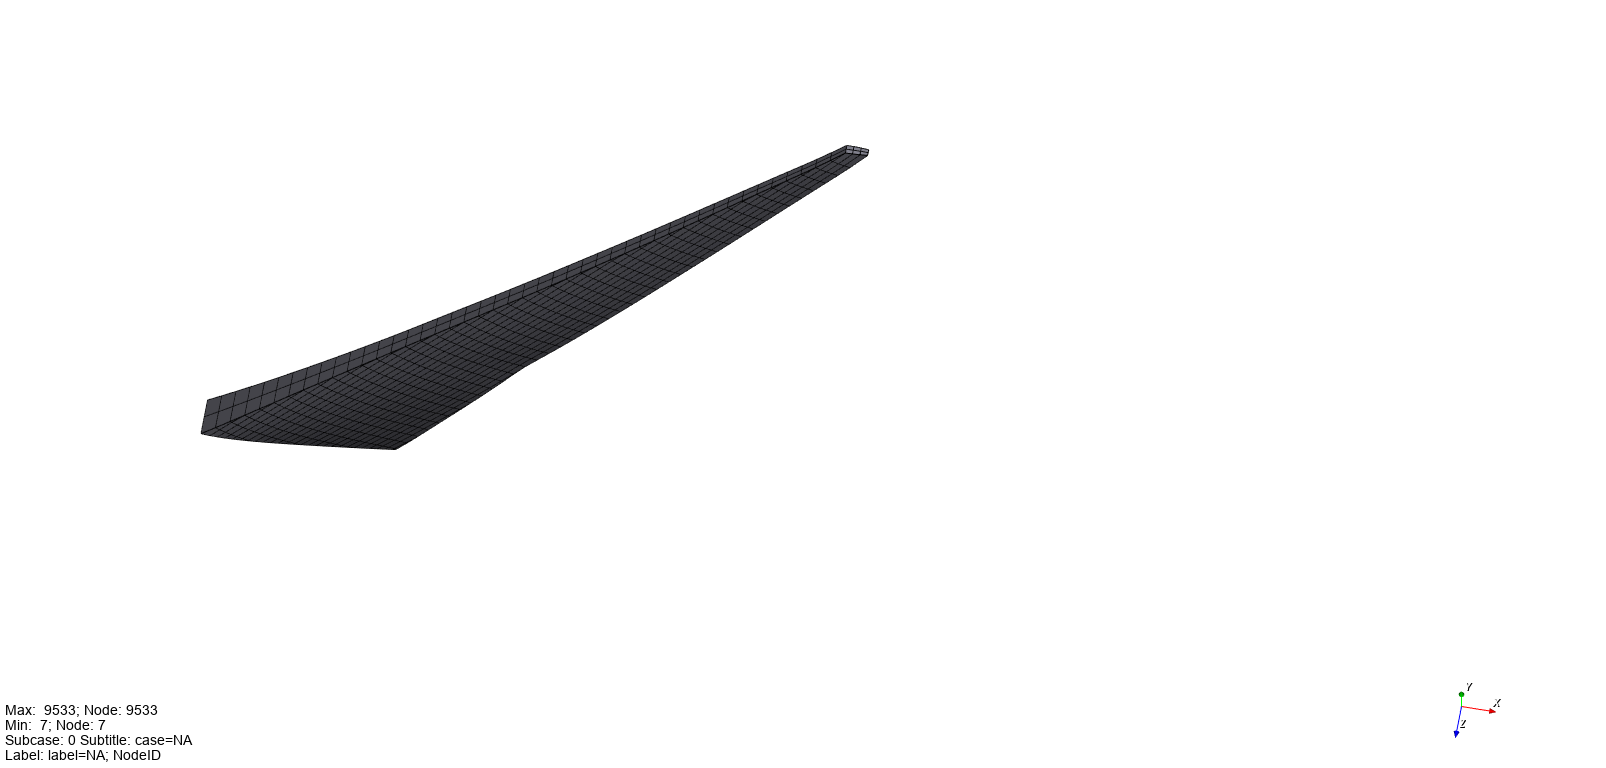
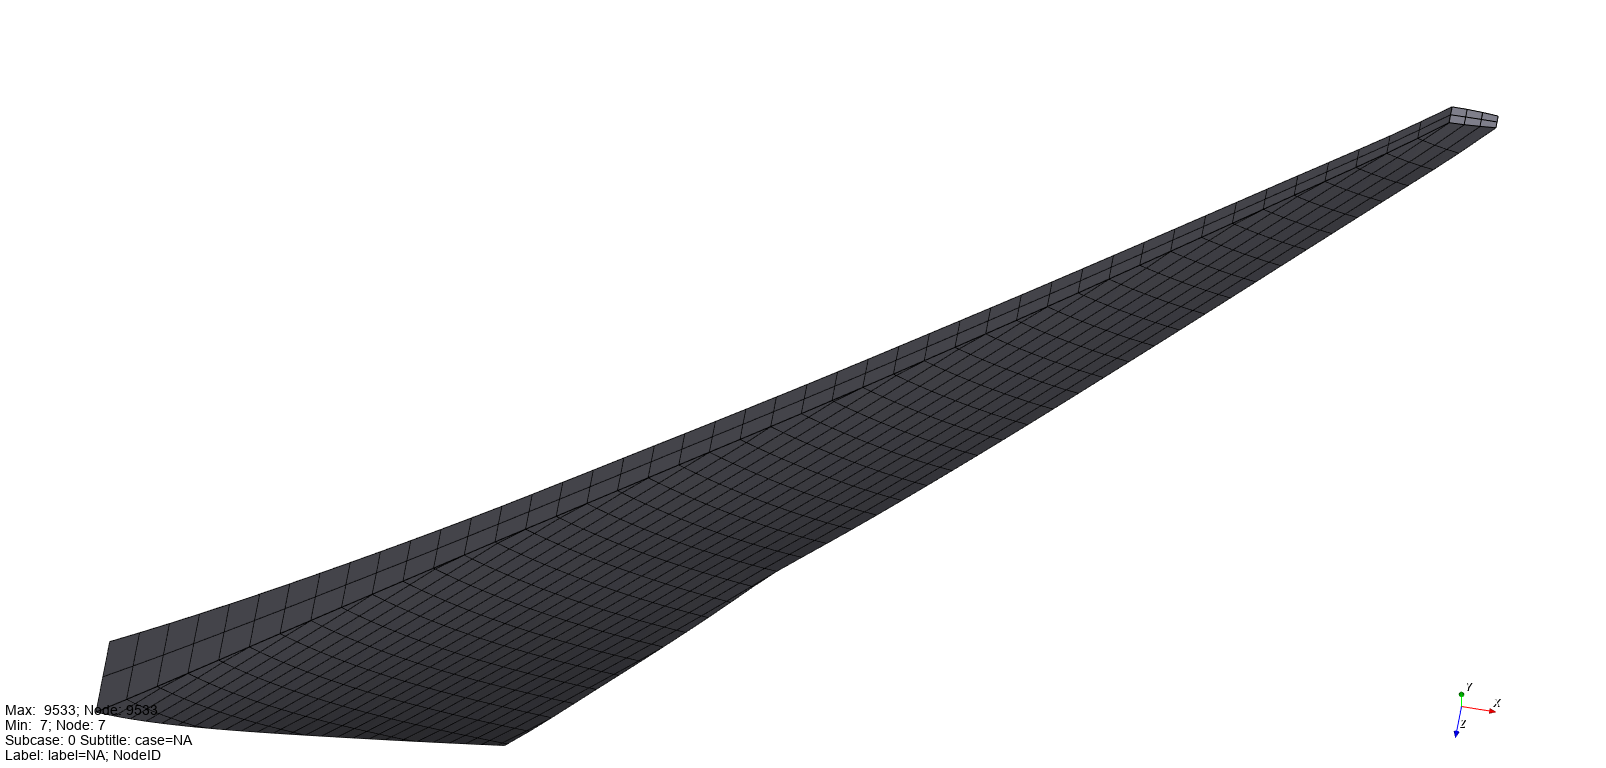
Fix render auto-fit/centering for models with unconnected GRID points (#74)
* Fix render auto-fit/centering on models with unconnected GRID points

The pCRM9 overview render (Test model 2) looked poorly zoomed compared to
the NASA CRM and ISTAR overviews -- the wing filled only a small corner
of the frame. Root cause: _build_postscript's auto-fit measured
self.grid.GetPoints(), which includes every GRID card pyNastran loaded,
not just the ones actually drawn. pCRM9 has 4 SPC-only GRID points (an
SPC1-only wing-body carry-through/attachment reference, no owning
element) sitting tens of meters outside the actual meshed wing --
confirmed directly via pyNastran (X extent more than doubles, 43,873mm
vs the visible mesh's 20,466mm, once those 4 points are included).
pyNastranGUI's own on_reset_camera()/ResetCamera() centers on the same
unfiltered points too, so both the zoom scale AND the focal point were
off.

Fix: restrict the fit calculation to points actually referenced by a
cell in self.grid (the real, visible geometry), and re-center the
camera's FocalPoint/Position on that same filtered set by a delta shift
that preserves the already-established view direction. Regenerated the
pCRM9 render with the fix; NASA CRM and ISTAR renders regenerated as a
regression check and confirmed visually unchanged (they have no/
negligible unconnected-node extent). Full mcp_server test suite (50
tests) still passes.

* Document the unconnected-GRID render auto-fit gotcha in CLAUDE.md

Per this repo's own session-wrap-up convention: a durable, repo-level
[…]

Changed region(s): [[0.0623, 0.125, 0.934, 0.9688], [0.1245, 0.1875, 0.5604, 0.5938]]

diff --git a/scripts/mcp_server.py b/scripts/mcp_server.py
@@ -2110,7 +2110,41 @@ _fit_right = _fit_right / _np_fit.linalg.norm(_fit_right)
 _fit_up = _np_fit.cross(_fit_right, _fit_view_dir)
 _fit_up = _fit_up / _np_fit.linalg.norm(_fit_up)
 
-_fit_points = _fit_vtk_to_numpy(self.grid.GetPoints().GetData())
+_fit_all_points = _fit_vtk_to_numpy(self.grid.GetPoints().GetData())
+# self.grid.GetPoints() returns every GRID card pyNastran loaded, not just
+# the ones actually drawn -- a GRID that's only referenced by an SPC/SPC1
+# (no owning element) still gets a point in this array with no cell
+# attached to it. Confirmed against a real deck (pCRM9): 4 SPC-only nodes
+# representing a wing-body attachment/carry-through reference sit tens of
+# meters outside the actual meshed wing, more than doubling the raw
+# points' X/Z extent versus the visible mesh alone and shrinking the
+# rendered wing to a fraction of the frame despite this fit logic.
+# Restricting to points actually referenced by a cell (the real, visible
+# geometry) fixes this regardless of *why* a model has unconnected GRIDs.
+_fit_used_ids = set()
+for _fit_cell_i in range(self.grid.GetNumberOfCells()):
+    _fit_ids = self.grid.GetCell(_fit_cell_i).GetPointIds()
+    for _fit_j in range(_fit_ids.GetNumberOfIds()):
+        _fit_used_ids.add(_fit_ids.GetId(_fit_j))
+_fit_points = (
+    _fit_all_points[sorted(_fit_used_ids)] if _fit_used_ids else _fit_all_points
+)
+
+# on_reset_camera()/ResetCamera() (in camera_block, above) centers on the
+# same unfiltered self.grid points -- so on a model with unconnected GRIDs
+# the focal point/position are already off-center before this block even
+# runs, independent of the ParallelScale fix above. Re-center on the real
+# geometry's own midpoint by shifting FocalPoint and Position by the same
+# delta, which preserves the view DIRECTION established by camera_block
+# (preset Azimuth/Elevation, or a custom_camera) and only moves *where*
+# that direction is centered.
+_fit_true_center = (_fit_points.max(axis=0) + _fit_points.min(axis=0)) / 2.0
+_fit_old_focal = _np_fit.array(_fit_cam.GetFocalPoint())
+_fit_old_pos = _np_fit.array(_fit_cam.GetPosition())
+_fit_delta = _fit_true_center - _fit_old_focal
+_fit_cam.SetFocalPoint(*(_fit_old_focal + _fit_delta))
+_fit_cam.SetPosition(*(_fit_old_pos + _fit_delta))
+
 _fit_extent_x = (_fit_points @ _fit_right).ptp()
 _fit_extent_y = (_fit_points @ _fit_up).ptp()
 

diff --git a/CLAUDE.md b/CLAUDE.md
@@ -190,6 +190,24 @@ rationale here, just the reminder:
   produced its output file shortly after; retrying immediately without
   checking left two duplicate `pyNastran.gui.gui` processes running at
   once. Poll for the expected output file before retrying.
+- `render_model_view`/`render_stress_contour`'s auto-fit/centering
+  (`_build_postscript`'s fit_block in `mcp_server.py`) can be thrown off
+  by GRID points with no owning element -- e.g. an SPC-only reference
+  node representing an attachment point that was never meshed. It used
+  to measure `self.grid.GetPoints()` (every GRID pyNastran loaded) for
+  both the zoom scale and, via pyNastranGUI's own
+  `on_reset_camera()`/`ResetCamera()`, the camera's center -- confirmed on
+  pCRM9's real deck, whose 4 SPC-only carry-through nodes sit tens of
+  meters outside the meshed wing and more than doubled the measured X
+  extent (43,873mm vs the visible mesh's real 20,466mm), shrinking the
+  wing to a small corner of the frame. Fixed by restricting the fit to
+  points actually referenced by a cell in `self.grid`, then re-centering
+  FocalPoint/Position on that same filtered set by a delta shift (which
+  preserves whatever view direction the camera preset/custom camera
+  already established). Any future case study with unconnected GRIDs
+  (SPC- or CONM2-only reference nodes, unused leftover points) is exposed
+  to the same class of bug if this fit logic changes again -- always
+  verify against the actual visible-mesh extent, not the raw GRID list.
 
 Things with no README equivalent (code-level, not usage-level):
 
